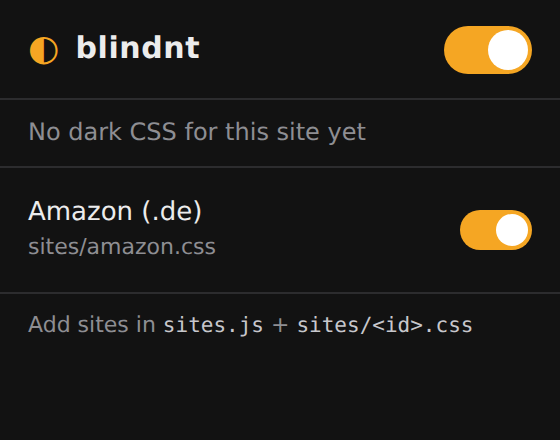
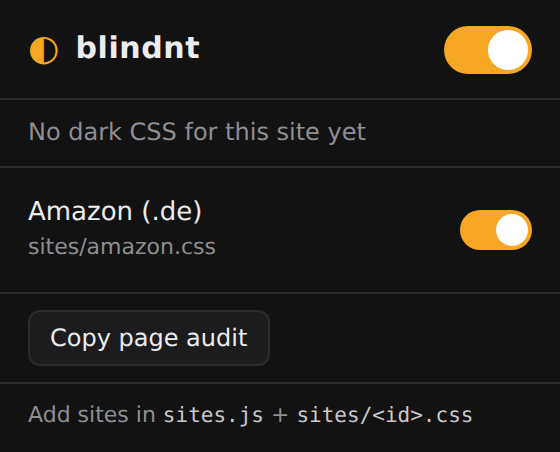
popup: Copy page audit tool; amazon: dark search bar, more homepage wrapper guesses
The audit button runs a scan on the active tab (large light-background
elements, gradients, mix-blend-mode) and copies a text report — so
logged-in pages I can't reproduce headless can still be fixed precisely.

diff --git a/popup.js b/popup.js
@@ -63,3 +63,68 @@ chrome.storage.local.get(['enabled', 'sites'], (stored) => {
     render();
   });
 });
+
+// --- Page audit: find what's still light on the current tab, copy a report to the clipboard ---
+function auditPage() {
+  const lum = (c) => {
+    const m = c.match(/rgba?\((\d+), (\d+), (\d+)(?:, ([\d.]+))?\)/);
+    if (!m || (m[4] !== undefined && +m[4] === 0)) return null;
+    return 0.299 * m[1] + 0.587 * m[2] + 0.114 * m[3];
+  };
+  const sel = (el) => {
+    let s = el.tagName.toLowerCase();
+    if (el.id) s += '#' + el.id;
+    const cls = typeof el.className === 'string' ? el.className.trim().split(/\s+/).filter(Boolean) : [];
+    if (cls.length) s += '.' + cls.slice(0, 4).join('.');
+    return s;
+  };
+  const light = [], blend = [], gradients = [];
+  for (const el of document.querySelectorAll('body *')) {
+    if (el.tagName === 'IMG' || el.tagName === 'VIDEO' || el.tagName === 'SVG') continue;
+    const r = el.getBoundingClientRect();
+    const area = r.width * r.height;
+    if (area < 4000) continue;
+    const s = getComputedStyle(el);
+    const l = lum(s.backgroundColor);
+    if (l !== null && l > 140) {
+      light.push({ sel: sel(el), bg: s.backgroundColor, area: Math.round(area), inline: (el.getAttribute('style') || '').slice(0, 80) });
+    }
+    if (s.backgroundImage.includes('gradient')) gradients.push({ sel: sel(el), bgi: s.backgroundImage.slice(0, 90), area: Math.round(area) });
+    if (s.mixBlendMode !== 'normal') blend.push({ sel: sel(el), mode: s.mixBlendMode });
+  }
+  light.sort((a, b) => b.area - a.area);
+  gradients.sort((a, b) => b.area - a.area);
+  const lines = [`# blindnt audit — ${location.href}`, `viewport ${innerWidth}x${innerHeight}, scrollY ${Math.round(scrollY)}`, ''];
+  lines.push(`## light backgrounds (${light.length})`);
+  for (const x of light.slice(0, 40)) lines.push(`${x.sel} | ${x.bg} | ${x.area}px²${x.inline ? ' | style="' + x.inline + '"' : ''}`);
+  lines.push('', `## gradients (${gradients.length})`);
+  for (const x of gradients.slice(0, 15)) lines.push(`${x.sel} | ${x.bgi}`);
+  lines.push('', `## mix-blend-mode (${blend.length})`);
+  for (const x of blend.slice(0, 15)) lines.push(`${x.sel} | ${x.mode}`);
+  return lines.join('\n');
+}
+
+const auditBtn = document.getElementById('audit');
+const auditMsg = document.getElementById('audit-msg');
+const auditOut = document.getElementById('audit-out');
+
+auditBtn.addEventListener('click', async () => {
+  auditMsg.textContent = 'scanning…';
+  try {
+    const [tab] = await chrome.tabs.query({ active: true, currentWindow: true });
+    const [{ result }] = await chrome.scripting.executeScript({ target: { tabId: tab.id }, func: auditPage });
+    auditOut.value = result;
+    auditOut.hidden = false;
+    try {
+      await navigator.clipboard.writeText(result);
+      auditMsg.textContent = 'copied to clipboard';
+    } catch {
+      auditOut.select();
+      auditMsg.textContent = 'select + copy below';
+    }
+  } catch (e) {
+    auditMsg.textContent = 'cannot scan this page';
+    auditOut.value = String(e);
+    auditOut.hidden = false;
+  }
+});

diff --git a/sites/amazon.css b/sites/amazon.css
@@ -217,8 +217,17 @@ tr:nth-child(even) td, .a-keyvalue tr:nth-child(even) td { background-color: #1a
 /* Nav (already dark) — fix the light parts */
 #nav-subnav, #nav-progressive-subnav { background: #232f3e !important; }
 #nav-subnav .nav-a { background: transparent !important; color: #fff !important; }
-#nav-search-bar-form, .nav-search-field input { background: #242426 !important; color: #e6e6e6 !important; }
-.nav-search-dropdown, #searchDropdownBox { background: #242426 !important; color: #e6e6e6 !important; }
+#nav-search-bar-form, .nav-search-field, .nav-search-field input, .nav-search-field .nav-input,
+#twotabsearchtextbox { background: #242426 !important; color: #e6e6e6 !important; border: 0 !important; box-shadow: none !important; }
+#nav-search-bar-form { border: 1px solid #444 !important; border-radius: 8px; overflow: hidden; }
+#nav-search-bar-form:focus-within { border-color: #f5a623 !important; }
+.nav-search-field input::placeholder { color: #8e8e93 !important; }
+.nav-search-scope, .nav-search-dropdown, #searchDropdownBox, .nav-search-label, .nav-search-facade {
+  background: #2f2f31 !important; color: #e6e6e6 !important; border: 0 !important; box-shadow: none !important;
+}
+.nav-search-scope { border-right: 1px solid #444 !important; }
+.nav-search-scope .nav-search-label { color: #e6e6e6 !important; }
+.nav-search-submit, .nav-search-submit-text, #nav-search-submit-button { border: 0 !important; }
 #nav-flyout-searchAjax, .s-suggestion, .s-suggestion-container, .s-suggestion-ellipsis-direction,
 #issDesktop, .left-pane-results-container, .left-pane-results-container .s-suggestion {
   background: #1c1c1e !important; color: #e6e6e6 !important;
@@ -277,7 +286,10 @@ tr:nth-child(even) td, .a-keyvalue tr:nth-child(even) td { background-color: #1a
 
 /* Homepage (gwm deck) — new grid layout wrappers */
 #gwm-Deck, #gwm-Deck-btf, [id^="gwm-Deck"], .gwm-u-blackjack-typography, #gw-content, .gw-content,
-#nav-shortcuts-container, #shortcut-menu, .nav-assistant, .shortcut-help-container, .shortcut-menu-section {
+#nav-shortcuts-container, #shortcut-menu, .nav-assistant, .shortcut-help-container, .shortcut-menu-section,
+#gw-container, .gw-container, #gwm-container, [id^="gwm-"], [class^="gwm-u-"], .gw-desktop-rhf, #gw-desktop-rhf,
+#desktop-grid-container, #desktop-grid-wrapper, #dp-desktop-grid, .a-container.gw-col, #gw-desktop-herotator,
+#a-page > div:not([class]):not([id]), .gw-page-container, #gwm-hero, .gwm-hero {
   background-color: #121212 !important;
   background-image: none !important;
   color: #e6e6e6 !important;

diff --git a/popup.css b/popup.css
@@ -77,3 +77,16 @@ code { font-family: ui-monospace, monospace; font-size: 10.5px; color: #c7c7cc; 
 .switch input:checked + .slider { background: var(--accent); }
 .switch input:checked + .slider::before { transform: translateX(16px); }
 .switch.big input:checked + .slider::before { transform: translateX(20px); }
+
+.tools { display: flex; align-items: center; gap: 10px; padding: 8px 14px; border-top: 1px solid var(--border); }
+.tools button {
+  background: var(--panel); color: var(--text); border: 1px solid var(--border);
+  border-radius: 6px; padding: 5px 10px; font: inherit; font-size: 12px; cursor: pointer;
+}
+.tools button:hover { border-color: var(--accent); }
+.muted { color: var(--muted); font-size: 11px; }
+#audit-out {
+  width: calc(100% - 28px); margin: 0 14px 8px; height: 110px;
+  background: #0e0e0e; color: #c7c7cc; border: 1px solid var(--border); border-radius: 6px;
+  font: 10.5px/1.35 ui-monospace, monospace; resize: vertical;
+}

diff --git a/popup.html b/popup.html
@@ -20,6 +20,12 @@
 
   <ul id="sites" class="sites"></ul>
 
+  <div class="tools">
+    <button id="audit" title="Scan this page for light backgrounds &amp; blend modes and copy the report">Copy page audit</button>
+    <span id="audit-msg" class="muted"></span>
+  </div>
+  <textarea id="audit-out" hidden readonly></textarea>
+
   <footer>Add sites in <code>sites.js</code> + <code>sites/&lt;id&gt;.css</code></footer>
 
   <script src="sites.js"></script>
